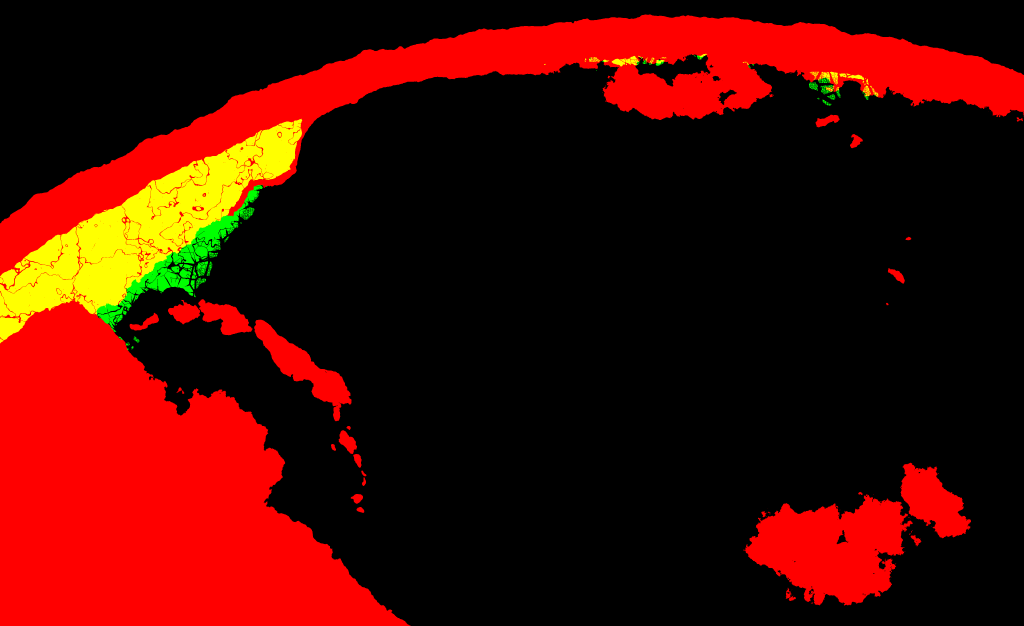
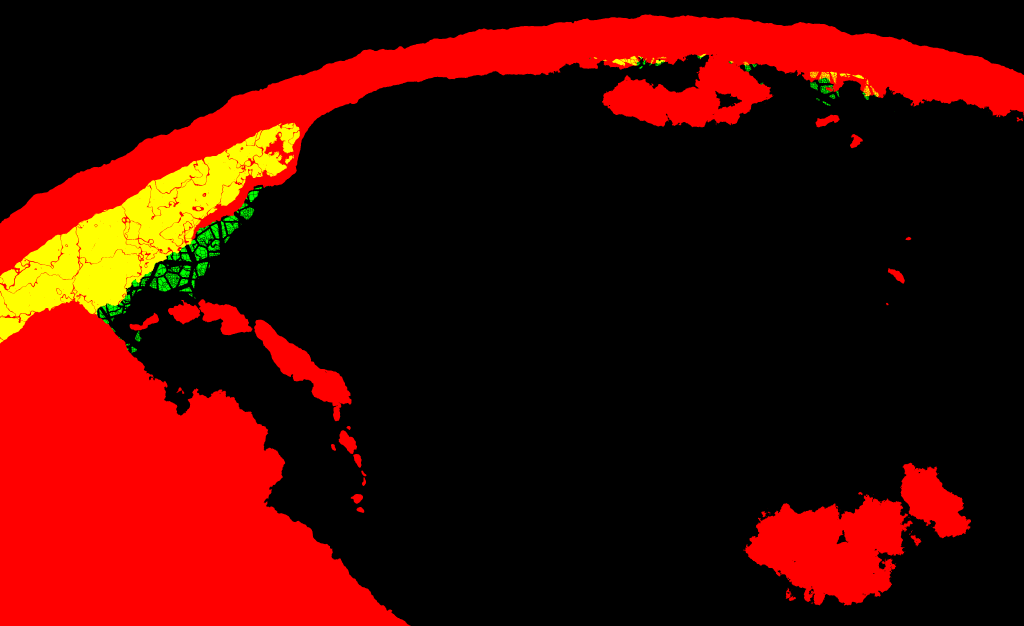
Sea from orbit: pack ice in rafts to the land's edge (no smooth band), rock shore and peaks through the sheet, top land further into the titan's frame

diff --git a/assets-src/reveal/land/ocean/make_ocean.py b/assets-src/reveal/land/ocean/make_ocean.py
@@ -135,8 +135,8 @@ LOW = [
     (3990, 95, 150, 70, 0.34, 20), (4200, 160, 70, 44, 0.26, -30), (3790, 40, 60, 36, 0.22, 60),
     # (From amount D a land at the top edge of the titan's frame, right of where the upper hand points, most of it above the frame;
     # and one beyond the storm, below and right of it, that the pull back uncovers.)
-    *([(3950, 30, 620, 330, 0.62, 12), (4420, 90, 600, 300, 0.7, -14), (4130, 200, 320, 160, 0.5, 25), (4800, -120, 560, 320, 0.55, 30),
-       (4790, 150, 380, 180, 0.5, -8),
+    *([(3950, 120, 620, 330, 0.62, 12), (4420, 180, 600, 300, 0.7, -14), (4130, 290, 320, 160, 0.5, 25), (4800, -30, 560, 320, 0.55, 30),
+       (4790, 240, 380, 180, 0.5, -8),
        (5400, 4030, 900, 520, 0.7, -15), (6050, 3960, 800, 460, 0.6, 20), (6600, 3700, 700, 420, 0.62, 50), (5750, 4350, 1100, 500, 0.66, 5)] if MAIN else []),
     (5640, 215, 150, 70, 0.36, -25), (5850, 415, 90, 50, 0.28, 30), (5545, 455, 54, 38, 0.24, 70), (5760, 610, 40, 30, 0.2, 10),
     (6230, 1650, 150, 70, 0.3, 70), (6120, 1950, 70, 44, 0.22, 20), (6400, 1380, 80, 40, 0.2, -40),
@@ -294,9 +294,11 @@ lead_small, rnd_small = floes(16.0, 72)
 loose = sstep(0.75, 0.0, pack)                       # how far toward the margin: there the floes part and thin out
 # (Not evenly: here the pack is driven together, there it lies open.)
 loose = np.clip(loose * (1.0 + 0.9 * fbm(330, 3, 79)) + 0.25 * sstep(0.1, 0.9, fbm(330, 3, 79)) * sstep(1.0, 0.6, pack), 0.0, 1.0)
+# (On the sea it is nowhere one smooth band along the shore, which read as a second coast: it is rafts to the land's edge.)
+loose = np.where(is_land, loose, np.maximum(loose, 0.6))
 # (The margin is torn by the swell at every size: tongues and bights of some tens of km, and the floes themselves.)
 # (Its seaward edge is hard and runs along the sides of the rafts: a cloud bank has no such edge.)
-there = sstep(0.0, 0.025, pack + 1.2 * (rnd_giant - 0.5) * loose + 0.5 * (rnd_huge - 0.5) * loose + 0.16 * fbm(260, 5, 73, gain=0.62))
+there = sstep(0.0, 0.025, pack + 2.0 * (rnd_giant - 0.5) * loose + 0.5 * (rnd_huge - 0.5) * loose + 0.16 * fbm(260, 5, 73, gain=0.62)) * sstep(-0.7, -0.5, pack)
 # (Leads in master px: hair lines in the sheet, open water between the floes of the margin.)
 part_big = 0.5 * sstep(0.1, 0.7, loose)
 part_small = 0.3 * np.clip((loose - 0.25) / 0.75, 0.0, 1.0)
@@ -304,7 +306,7 @@ ice = there * sstep(-2.0 + 3.4 * part_big, 0.3 + 3.7 * part_big, lead_big * S) *
 # (The largest floes are tens of km across and the water between them is wide and dark: what says ice from far off.)
 ice *= sstep(-1.0 + 9.0 * loose, 1.0 + 16.0 * loose, lead_huge * S)
 # (And those drift apart in rafts a few hundred km across with open sea between: the margin seen from the far orbit.)
-ice *= sstep(-2.0 + 14.0 * loose * (0.4 + 0.6 * rnd_giant), 2.0 + 30.0 * loose * (0.4 + 0.6 * rnd_giant), lead_giant * S)
+ice *= sstep(-2.0 + 24.0 * loose * (0.4 + 0.6 * rnd_giant), 2.0 + 44.0 * loose * (0.4 + 0.6 * rnd_giant), lead_giant * S)
 # (The sheet itself is whole but for a few long fractures, and it is not one white: old ice is thicker than new.)
 crack = np.minimum(np.abs(fbm(420, 5, 75, gain=0.55)), np.abs(fbm(300, 5, 76, gain=0.55)) + 0.02 * loose)
 ice *= 1.0 - 0.8 * (1.0 - sstep(0.008, 0.05, crack)) * sstep(0.1, 0.4, pack)
@@ -315,7 +317,10 @@ on_far = is_land & (far_land >= isle)
 # (Where the far land faces the body no pack lies off it: there the sheet stops short of the shore and a strip of bare rock
 # gives it its edge.)
 coast_px = cv2.distanceTransform(is_land.astype(np.uint8), cv2.DIST_L2, 5) * S
-bare = (1.0 - sstep(600.0, 900.0, body_px)) * (1.0 - sstep(0.0, 14.0, coast_px - 45.0 - 50.0 * fbm(240, 4, 78) - 30.0 * rnd_huge))
+strip = 1.0 - sstep(0.0, 14.0, coast_px - 80.0 - 80.0 * fbm(240, 4, 78) - 40.0 * rnd_huge)
+# (And behind the shore its peaks stand out of the ice: dark rock in a white field is what no cloud bank has.)
+peaks = sstep(0.2, 0.42, crag) * sstep(520.0, 140.0, coast_px)
+bare = (1.0 - sstep(700.0, 1100.0, body_px)) * np.maximum(strip, peaks)
 ice = np.where(on_far, ice * (1.0 - bare), ice * (1.0 - is_land) * (1.0 - (0.2 + 0.4 * sstep(0.0, 0.6, loose)) * (1.0 - rnd_huge ** 0.7 * (0.6 + 0.4 * rnd_big))))
 cold = sstep(-2.6, 0.2, pack) * (1.0 - is_land)
 ice_map = np.where(ice > 0.02, 0.5 + 0.5 * ice, 0.45 * cold * (1.0 - ice / 0.02))

diff --git a/assets-src/reveal/land/ocean/RECIPE.md b/assets-src/reveal/land/ocean/RECIPE.md
@@ -5,8 +5,8 @@
 Made by: `assets-src/reveal/land/ocean/make_ocean.py` (Python 3, numpy, OpenCV, Pillow). No image model.
 From: `assets-src/reveal/land/ocean/body-10027.png` (the part reveal/continent drawn alone at film frame 10027, review hd: where the film draws the body), and fixed seeds in the script.
 Prompt or command: `python3 assets-src/reveal/land/ocean/make_ocean.py` from the repo root (amount E is the default). Writes `public/assets/reveal/land/ocean-bed.jpg`, `ocean-land.jpg` and `assets-src/reveal/land/ocean/ocean-mask.png`.
-Takes: the last of about 32 runs (not counted one by one) as the layout, the bed, the ice and the silt were tuned.
-Why this one: the sea of the titan frame was one navy. The map gives it a bed (red: basins, a rise to the body, a trench and a platform for the island arc, banks, the shelves of the other land), bloom drawn out along one current field that follows the lines of equal depth and the silt of three rivers of the lower leg, carried from their mouths by that same field (green: under a half bloom, over it silt), and the cold water and the ice (blue: under 0.45 cold, over 0.5 ice: a sheet that lies on over the far land to the planet's edge, bare rock at its shore where it faces the body, and before it on the sea a pack whose hard seaward edge runs along the sides of rafts some hundreds of km across, with wide dark leads between them). 4096 x 2504 over the master rectangle x -1800 to 7416, y -800 to 4834.
+Takes: the last of about 34 runs (not counted one by one) as the layout, the bed, the ice and the silt were tuned.
+Why this one: the sea of the titan frame was one navy. The map gives it a bed (red: basins, a rise to the body, a trench and a platform for the island arc, banks, the shelves of the other land), bloom drawn out along one current field that follows the lines of equal depth and the silt of three rivers of the lower leg, carried from their mouths by that same field (green: under a half bloom, over it silt), and the cold water and the ice (blue: under 0.45 cold, over 0.5 ice: a sheet that lies on over the far land to the planet's edge, bare rock at its shore and its peaks standing out of the ice where it faces the body, and before it on the sea a pack that is rafts some hundreds of km across to the land's edge, with wide dark leads between them and a hard seaward edge along their sides). 4096 x 2504 over the master rectangle x -1800 to 7416, y -800 to 4834.
 Date: 2026-11-28
 
 ## ocean-land.jpg
@@ -14,6 +14,6 @@ Date: 2026-11-28
 Made by: `assets-src/reveal/land/ocean/make_ocean.py` (Python 3, numpy, OpenCV, Pillow). No image model.
 From: `assets-src/reveal/land/ocean/body-10027.png` and fixed seeds in the script.
 Prompt or command: `python3 assets-src/reveal/land/ocean/make_ocean.py` from the repo root (the same run as ocean-bed.jpg). `--amount A`, `C`, `B` and `D` give less of the other land; `E` has the largest islands in the arc.
-Takes: the last of about 32 runs. Amounts A, C and B, then B, D and E were drawn side by side for the lead; E is kept by the lead's ruling.
+Takes: the last of about 34 runs. Amounts A, C and B, then B, D and E were drawn side by side for the lead; E is kept by the lead's ruling.
 Why this one: Brandon's note of 27 November: no other landmasses. An island arc of unlike volcanic islands convex toward the body, low islands on rises at the top and in the sun's image, a far coast under the planet's edge and, from amount D, a mainland behind the arc that runs on out of the map at the lower left, a land at the top edge of the titan's frame right of where the upper hand points and a land below the hurricane that the pull back uncovers, each a height field cut by a stream power erosion (red, green: its slope; blue: its height, over 0.3 land, under it how shallow the water by it is). Nothing nearer the body than 330 px of the master, nothing by the hurricane.
 Date: 2026-11-28

diff --git a/assets-src/reveal/ROWS-reveal_ocean_builder_n30.md b/assets-src/reveal/ROWS-reveal_ocean_builder_n30.md
@@ -2,5 +2,5 @@
 
 | file | what | tool or model | prompt | take | date |
 | --- | --- | --- | --- | --- | --- |
-| public/assets/reveal/land/ocean-bed.jpg | the sea from orbit over the master rectangle x -1800 to 7416, y -800 to 4834: red the sea bed (0 the deepest basin, 1 a shoal), green bloom along the currents (under a half) and the silt of three rivers (over it), blue the cold of the water (under 0.45) and the ice (over 0.5). 4096 x 2504 | assets-src/reveal/land/ocean/make_ocean.py (numpy, OpenCV, Pillow) from assets-src/reveal/land/ocean/body-10027.png and fixed seeds | none: no image model | last of about 32 runs | 2026-11-28 |
-| public/assets/reveal/land/ocean-land.jpg | the other land over the same rectangle: red and green its slope, blue its height (over 0.3 land, under it how shallow the water by it is). 4096 x 2504 | the same run of make_ocean.py | none: no image model | last of about 32 runs | 2026-11-28 |
+| public/assets/reveal/land/ocean-bed.jpg | the sea from orbit over the master rectangle x -1800 to 7416, y -800 to 4834: red the sea bed (0 the deepest basin, 1 a shoal), green bloom along the currents (under a half) and the silt of three rivers (over it), blue the cold of the water (under 0.45) and the ice (over 0.5). 4096 x 2504 | assets-src/reveal/land/ocean/make_ocean.py (numpy, OpenCV, Pillow) from assets-src/reveal/land/ocean/body-10027.png and fixed seeds | none: no image model | last of about 34 runs | 2026-11-28 |
+| public/assets/reveal/land/ocean-land.jpg | the other land over the same rectangle: red and green its slope, blue its height (over 0.3 land, under it how shallow the water by it is). 4096 x 2504 | the same run of make_ocean.py | none: no image model | last of about 34 runs | 2026-11-28 |
